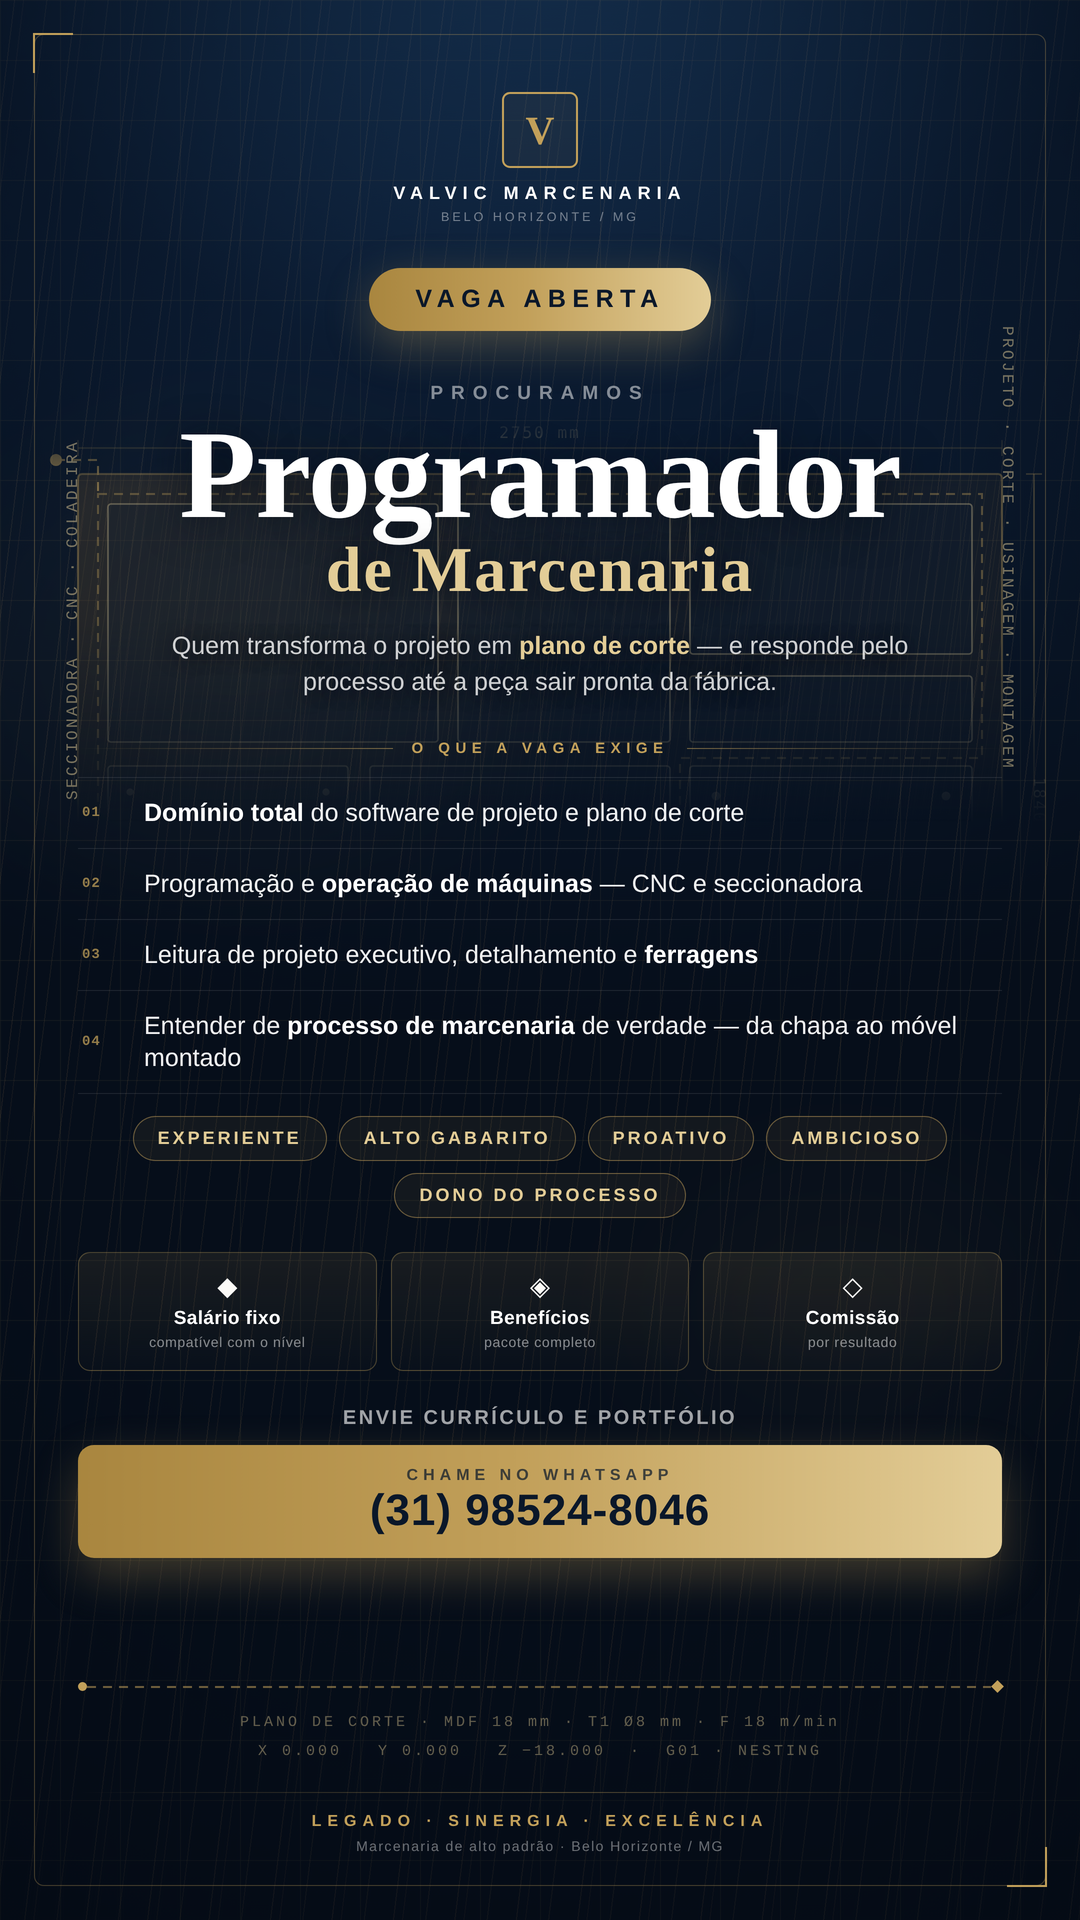
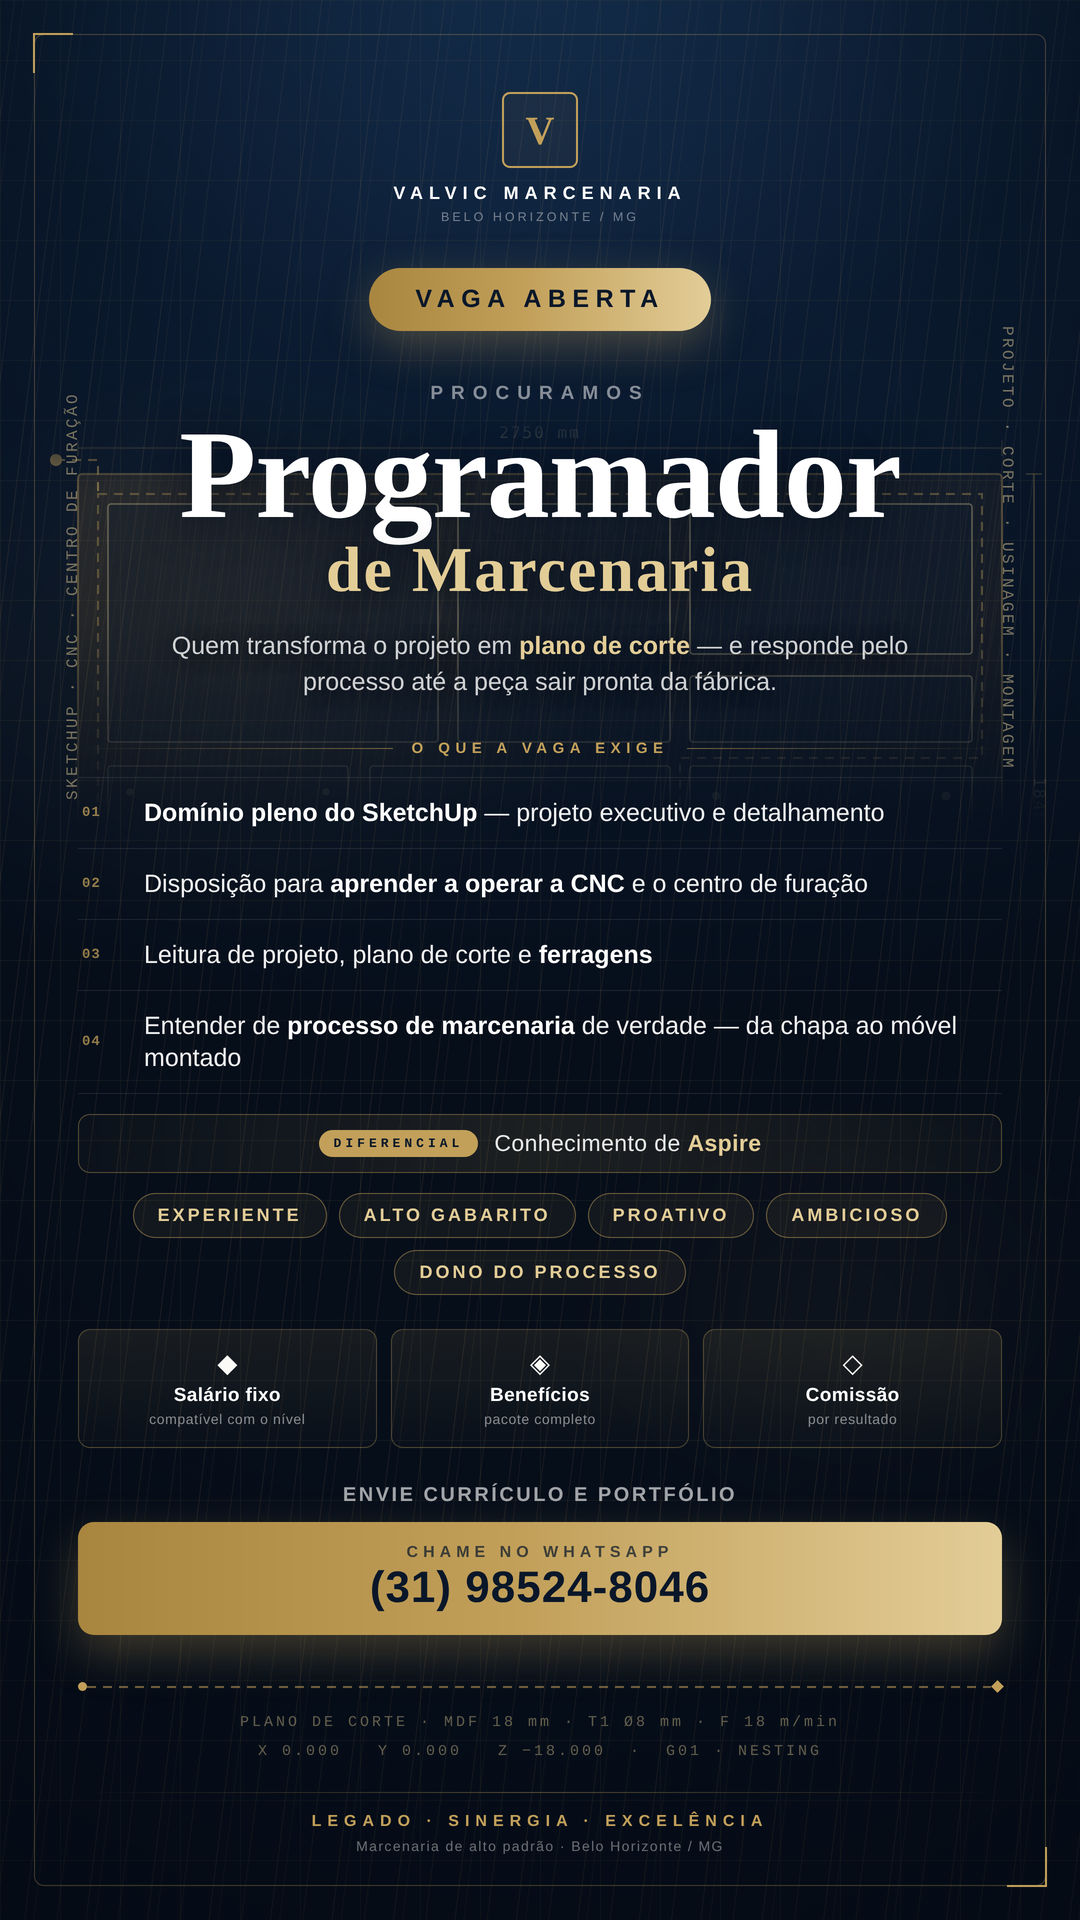
Story da vaga: SketchUp como domínio, CNC como aprendizado
- seccionadora sai (a empresa não tem)
- CNC e centro de furação viram disposição para aprender, não exigência
- domínio pleno do SketchUp passa a ser o requisito principal
- entra faixa de diferencial para conhecimento de Aspire

Claude-Session: https://claude.ai/code/session_01K1S8HPUyosaj44kGisijyQ

diff --git a/painel/vaga-programador-marcenaria-story.html b/painel/vaga-programador-marcenaria-story.html
@@ -118,7 +118,15 @@ body{font-family:'Inter',sans-serif;color:var(--cream);-webkit-font-smoothing:an
 .req .t b{font-weight:800;color:#fff}
 
 /* ─────────── perfil ─────────── */
-.chips{display:flex;flex-wrap:wrap;justify-content:center;gap:12px;margin-top:22px}
+.dif{display:flex;align-items:center;justify-content:center;gap:16px;margin-top:20px;
+  border:1px solid rgba(194,160,90,.4);border-radius:12px;padding:15px 20px;
+  background:linear-gradient(90deg,rgba(194,160,90,.03),rgba(194,160,90,.12),rgba(194,160,90,.03))}
+.dif .tag{font-size:13px;font-weight:700;letter-spacing:4px;text-transform:uppercase;
+  color:#0A1729;background:var(--gold);border-radius:30px;padding:6px 15px}
+.dif .tx{font-size:23px;color:rgba(255,255,255,.9);letter-spacing:.4px}
+.dif .tx b{color:var(--gold-soft);font-weight:800}
+
+.chips{display:flex;flex-wrap:wrap;justify-content:center;gap:12px;margin-top:20px}
 .chip{font-size:18px;font-weight:700;letter-spacing:3px;text-transform:uppercase;
   color:var(--gold-soft);border:1.5px solid rgba(194,160,90,.5);border-radius:40px;
   padding:11px 24px;background:rgba(194,160,90,.07)}
@@ -227,7 +235,7 @@ body{font-family:'Inter',sans-serif;color:var(--cream);-webkit-font-smoothing:an
   <div class="vinheta"></div>
   <div class="frame"></div>
 
-  <div class="anot esq mono">SECCIONADORA · CNC · COLADEIRA</div>
+  <div class="anot esq mono">SKETCHUP · CNC · CENTRO DE FURAÇÃO</div>
   <div class="anot dir mono">PROJETO · CORTE · USINAGEM · MONTAGEM</div>
 
   <!-- ── topo ── -->
@@ -253,13 +261,17 @@ body{font-family:'Inter',sans-serif;color:var(--cream);-webkit-font-smoothing:an
     <div class="rot"><span class="ln"></span><span class="tx">O que a vaga exige</span><span class="ln r"></span></div>
     <div class="req">
       <div class="l"><div class="n mono">01</div>
-        <div class="t"><b>Domínio total</b> do software de projeto e plano de corte</div></div>
+        <div class="t"><b>Domínio pleno do SketchUp</b> — projeto executivo e detalhamento</div></div>
       <div class="l"><div class="n mono">02</div>
-        <div class="t">Programação e <b>operação de máquinas</b> — CNC e seccionadora</div></div>
+        <div class="t">Disposição para <b>aprender a operar a CNC</b> e o centro de furação</div></div>
       <div class="l"><div class="n mono">03</div>
-        <div class="t">Leitura de projeto executivo, detalhamento e <b>ferragens</b></div></div>
+        <div class="t">Leitura de projeto, plano de corte e <b>ferragens</b></div></div>
       <div class="l"><div class="n mono">04</div>
         <div class="t">Entender de <b>processo de marcenaria</b> de verdade — da chapa ao móvel montado</div></div>
+    </div>
+    <div class="dif">
+      <span class="tag mono">Diferencial</span>
+      <span class="tx">Conhecimento de <b>Aspire</b></span>
     </div>
     <div class="chips">
       <span class="chip">Experiente</span>

diff --git a/.claude/skills/gestao-estrategica-operacional/dados/mapa-documentos.md b/.claude/skills/gestao-estrategica-operacional/dados/mapa-documentos.md
@@ -61,7 +61,7 @@ quando criar/revisar documentos.
 | **Layout do galpão (Fase 1)** | Layout do galpão atual | `layout-fase1-galpao-atual.html` · `Valvic_Layout_Fase1_Galpao_Atual.pdf` · `layout_galpao_1000m2.png` |
 | **Advertência (RH)** | Documento disciplinar (exemplo Jomar/Projeto Yasmin) | `advertencia-jomar.html` · `Advertencia_Jomar_Projeto_Yasmin.pdf` |
 | **Ocorrência & reparo — Maria e Valdenir** | Registro formal de dano ao painel de TV laqueado (Vale dos Cristais, dano de terceiros) + custos do reparo in loco (total R$ 750, marceneiro cortesia) | `ocorrencia-reparo-maria-valdenir.html` · `Valvic_Ocorrencia_Reparo_Maria_Valdenir.pdf` |
-| **Story Instagram — Vaga Programador de Marcenaria** | Arte de story (1080×1920) para a vaga que era do Hugo. O layout é o próprio ofício virado imagem: o fundo é um **plano de corte** — chapa de 2750×1840 com peças nestadas, furação sistema 32, toolpath tracejado com lead-in e cotas —, desenhado em linha dourada sobre veio de madeira e malha de prancheta, com máscara que o faz desaparecer antes do texto. Tipografia Cormorant + Inter + JetBrains Mono nas anotações técnicas. Traz 4 requisitos (domínio do software de projeto e plano de corte, programação e operação de CNC e seccionadora, leitura de projeto executivo e ferragens, processo de marcenaria da chapa ao móvel montado), 5 chips de perfil (experiente, alto gabarito, proativo, ambicioso, dono do processo) e a oferta em três blocos — **salário fixo, benefícios e comissão, sem expor valores**. CTA de WhatsApp | `painel/vaga-programador-marcenaria-story.html` · `painel/Valvic_Vaga_Programador_Story.png` |
+| **Story Instagram — Vaga Programador de Marcenaria** | Arte de story (1080×1920) para a vaga que era do Hugo. O layout é o próprio ofício virado imagem: o fundo é um **plano de corte** — chapa de 2750×1840 com peças nestadas, furação sistema 32, toolpath tracejado com lead-in e cotas —, desenhado em linha dourada sobre veio de madeira e malha de prancheta, com máscara que o faz desaparecer antes do texto. Tipografia Cormorant + Inter + JetBrains Mono nas anotações técnicas. Traz 4 requisitos (**domínio pleno do SketchUp** para projeto executivo e detalhamento, disposição para aprender a operar a CNC e o centro de furação, leitura de projeto/plano de corte/ferragens, processo de marcenaria da chapa ao móvel montado), faixa de **diferencial para conhecimento de Aspire**, 5 chips de perfil (experiente, alto gabarito, proativo, ambicioso, dono do processo) e a oferta em três blocos — **salário fixo, benefícios e comissão, sem expor valores**. CTA de WhatsApp | `painel/vaga-programador-marcenaria-story.html` · `painel/Valvic_Vaga_Programador_Story.png` |
 | **Story Instagram — Vagas Marceneiro e Ajudante** | Arte de story (1080×1920) com **as duas vagas no mesmo post**: Marceneiro (domínio do ofício, autonomia, salário fixo + comissão por obra) e Ajudante (**com ou sem experiência**, formação na prática, trilha de carreira com aumento a cada etapa). CTA de WhatsApp em bloco dourado e rodapé com os valores da marca. **Sem faixa de benefícios**, a pedido. Estética Valvic navy/gold com textura de grão em linhas douradas. **Sem valores de salário**, a exemplo do story anterior. Área segura de 124 px no rodapé para não colidir com a barra do Instagram | `vaga-marceneiro-ajudante-story.html` · `Valvic_Vaga_Marceneiro_Ajudante_Story.png` |
 | **Story Instagram — Vaga Marceneiro (anterior)** | Arte de divulgação de vaga (1080×1920), estética Valvic (navy/gold), profissional experiente com domínio total do ofício, salário fixo + comissão, VA + VT, contato WhatsApp | `vaga-marceneiro-instagram-story.html` · `Valvic_Vaga_Marceneiro_Story.png` |
 | **Índice do painel** | Página-índice dos documentos | `index.html` |
